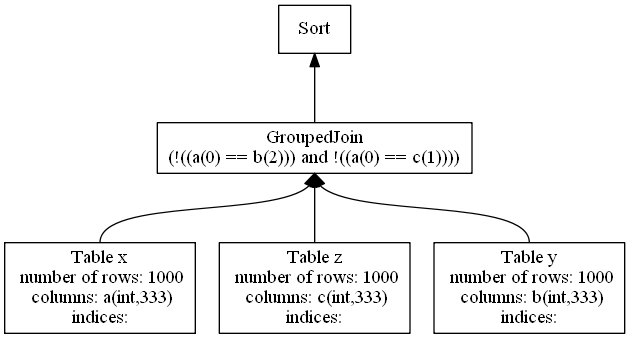
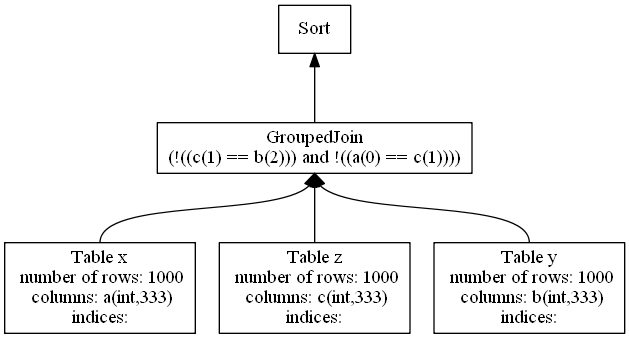
added new test in join grouping

Changed region(s): [[0.3927, 0.4425, 0.6041, 0.5015], [0.6645, 0.4425, 0.7552, 0.5015], [0.3021, 0.4425, 0.3625, 0.5015]]

diff --git a/RelationalQueryEvaluator/AlgebraVisitor.cpp b/RelationalQueryEvaluator/AlgebraVisitor.cpp
@@ -499,7 +499,7 @@ void GroupingVisitor::resolveJoins(BinaryAlgebraNodeBase * node,GroupedJoin * gr
 					}
 					for(auto it2=groupedOperator->outputColumns.begin();it2!=groupedOperator->outputColumns.end();++it2)
 					{
-						if((it2)->newName==name && it2->input==i)
+						if((it2)->newName==name)
 						{
 							(it2)->input=it->input+numberOfChildreninFirstChild;;
 						}
